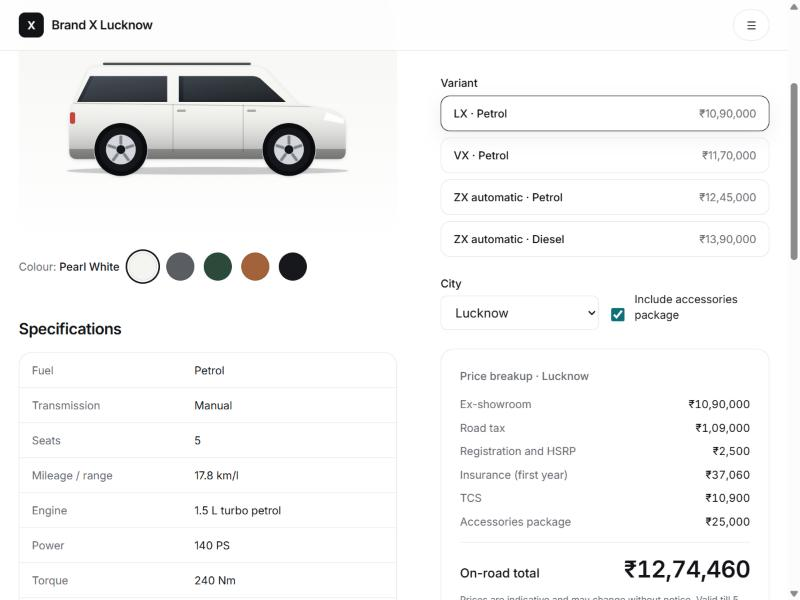
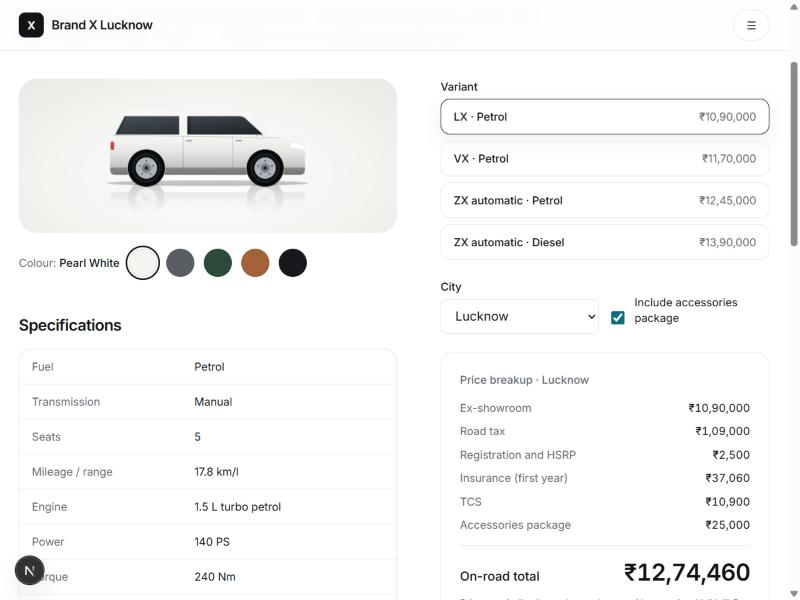
Variant-specific car preview with studio floor and layered colour-change animation

diff --git a/src/components/CarArt.tsx b/src/components/CarArt.tsx
@@ -1,6 +1,7 @@
 import { useId } from "react";
 
-type Body = "Hatchback" | "Sedan" | "SUV";
+export type Body = "Hatchback" | "Sedan" | "SUV";
+export type Trim = { tier: number; tiers: number; fuel: string; transmission: string };
 
 type Shape = {
   tail: number;
@@ -10,36 +11,62 @@ type Shape = {
   archR: number;
   sill: number;
   belt: number;
+  roof: number;
   upper: string;
   glass: string;
   seams: number[];
-  rails?: string;
+  rails: string;
+  spoiler: string;
+  mirror: [number, number];
 };
 
 const GROUND = 180;
+const CX = 245;
+const DEFAULT_TRIM: Trim = { tier: 1, tiers: 3, fuel: "Petrol", transmission: "Manual" };
 
-// Wheel centre sits above the sill, as on a real car; arches are cut out of the body outline.
 const SHAPES: Record<Body, Shape> = {
   SUV: {
-    tail: 30, nose: 459, wheels: [110, 371], wheelR: 34, archR: 42, sill: 161, belt: 74,
+    tail: 30, nose: 459, wheels: [110, 371], wheelR: 34, archR: 42, sill: 161, belt: 74, roof: 17,
     upper: "L30 108 L34 80 L58 26 Q62 17 74 17 L318 17 Q330 17 338 26 L386 76 L430 84 Q455 88 459 108",
     glass: "M62 32 L182 32 L182 72 L42 72 Z M200 32 L314 32 Q324 32 330 39 L366 72 L200 72 Z",
     seams: [191, 300],
     rails: "M84 13 L310 13",
+    spoiler: "M46 40 L68 21 L82 21 L58 42 Z",
+    mirror: [352, 74],
   },
   Sedan: {
-    tail: 20, nose: 470, wheels: [110, 375], wheelR: 31, archR: 39, sill: 162, belt: 90,
+    tail: 20, nose: 470, wheels: [110, 375], wheelR: 31, archR: 39, sill: 162, belt: 90, roof: 35,
     upper: "L20 120 Q20 104 32 102 L118 92 L152 44 Q158 35 176 35 L276 35 Q290 35 300 44 L350 88 L430 98 Q468 104 470 124",
     glass: "M124 88 L154 47 Q158 42 168 42 L200 42 L200 88 Z M208 42 L274 42 Q284 42 291 49 L326 88 L208 88 Z",
     seams: [204, 312],
+    rails: "M170 32 L280 32",
+    spoiler: "M22 103 L70 96 L72 100 L24 108 Z",
+    mirror: [322, 90],
   },
   Hatchback: {
-    tail: 50, nose: 441, wheels: [125, 370], wheelR: 31, archR: 39, sill: 162, belt: 80,
+    tail: 50, nose: 441, wheels: [125, 370], wheelR: 31, archR: 39, sill: 162, belt: 80, roof: 25,
     upper: "L50 118 Q50 104 54 94 L72 36 Q75 25 88 25 L290 25 Q304 25 312 34 L352 84 L412 92 Q440 96 441 116",
     glass: "M80 36 L186 36 L186 76 L62 76 Z M196 36 L286 36 Q296 36 302 43 L332 76 L196 76 Z",
     seams: [191, 292],
+    rails: "M92 21 L284 21",
+    spoiler: "M56 42 L78 24 L92 25 L68 46 Z",
+    mirror: [322, 80],
   },
 };
+
+export function trimSpec(trim: Trim, body: Body) {
+  const f = trim.tiers > 1 ? trim.tier / (trim.tiers - 1) : 0.5;
+  return {
+    scale: 0.92 + f * 0.1,
+    rails: body === "SUV" ? f >= 0.34 : f >= 0.67,
+    spoiler: body !== "SUV" && f >= 0.67,
+    chrome: f >= 0.34,
+    led: f >= 0.5,
+    ev: trim.fuel === "Electric",
+    cng: trim.fuel === "CNG",
+    wheel: trim.fuel === "Electric" ? "aero" : f < 0.34 ? "steel" : f < 0.67 ? "alloy5" : "alloy10",
+  } as const;
+}
 
 function outline(s: Shape) {
   const [r, f] = s.wheels;
@@ -56,58 +83,168 @@ function outline(s: Shape) {
   ].join(" ");
 }
 
-export function CarArt({ body, colour, className }: { body: Body; colour: string; className?: string }) {
+const fade = (on: boolean): React.CSSProperties => ({ opacity: on ? 1 : 0, transition: "opacity .5s ease" });
+
+function Wheel({ x, cy, r, style }: { x: number; cy: number; r: number; style: string }) {
+  const show = (name: string) => fade(style === name);
+  return (
+    <g>
+      <circle cx={x} cy={cy} r={r} fill="#101215" />
+      <circle cx={x} cy={cy} r={r * 0.88} fill="none" stroke="#2a2d32" strokeWidth="1.4" />
+      <circle cx={x} cy={cy} r={r * 0.68} fill="#d6d9de" />
+      <circle cx={x} cy={cy} r={r * 0.5} fill="#9aa0a8" opacity="0.5" />
+
+      <g style={show("steel")}>
+        <circle cx={x} cy={cy} r={r * 0.68} fill="#aeb3ba" />
+        <circle cx={x} cy={cy} r={r * 0.3} fill="#7b8088" />
+        {[0, 72, 144, 216, 288].map((a) => <circle key={a} cx={x} cy={cy - r * 0.46} r="1.6" fill="#4a4e55" transform={`rotate(${a} ${x} ${cy})`} />)}
+      </g>
+      <g style={show("alloy5")}>
+        {[0, 72, 144, 216, 288].map((a) => <rect key={a} x={x - 2.8} y={cy - r * 0.66} width="5.6" height={r * 0.46} rx="2.6" fill="#7d838b" transform={`rotate(${a} ${x} ${cy})`} />)}
+      </g>
+      <g style={show("alloy10")}>
+        <circle cx={x} cy={cy} r={r * 0.68} fill="#2c3036" />
+        {Array.from({ length: 10 }, (_, i) => i * 36).map((a) => <rect key={a} x={x - 1.7} y={cy - r * 0.66} width="3.4" height={r * 0.46} rx="1.6" fill="#e3e6ea" transform={`rotate(${a} ${x} ${cy})`} />)}
+        <circle cx={x} cy={cy} r={r * 0.68} fill="none" stroke="#e3e6ea" strokeWidth="1" />
+      </g>
+      <g style={show("aero")}>
+        <circle cx={x} cy={cy} r={r * 0.68} fill="#e8eaee" />
+        <circle cx={x} cy={cy} r={r * 0.56} fill="none" stroke="#b4bac2" strokeWidth="2" />
+        <circle cx={x} cy={cy} r={r * 0.4} fill="none" stroke="#c7ccd3" strokeWidth="1.2" />
+        <circle cx={x} cy={cy} r={r * 0.16} fill="#1d8fa0" />
+      </g>
+      <circle cx={x} cy={cy} r={r * 0.12} fill="#101215" opacity="0.8" />
+    </g>
+  );
+}
+
+type Props = {
+  body: Body;
+  colour: string;
+  fromColour?: string;
+  animKey?: number;
+  trim?: Trim;
+  reflection?: boolean;
+  className?: string;
+};
+
+export function CarArt({ body, colour, fromColour, animKey = 0, trim = DEFAULT_TRIM, reflection = false, className }: Props) {
   const uid = useId().replace(/:/g, "");
   const s = SHAPES[body];
+  const t = trimSpec(trim, body);
   const path = outline(s);
   const cy = GROUND - s.wheelR;
+  const baseColour = fromColour ?? colour;
+  const animating = !!fromColour && fromColour !== colour;
+  const bandEdges = [s.roof - 6, s.belt - 4, s.belt + (s.sill - s.belt) * 0.42, s.sill - 14, GROUND + 4];
+  const layerDelays = [0, 0.14, 0.28, 0.42];
+
+  const paint = (c: string) => (
+    <g>
+      <path d={path} fill={c} />
+      <g clipPath={`url(#c${uid})`}>
+        <rect x="0" y={s.sill - 16} width="490" height="20" fill="#000" opacity="0.3" />
+        <path d={path} fill={`url(#b${uid})`} />
+        <rect x="0" y={s.belt - 8} width="490" height="14" fill={`url(#sp${uid})`} />
+      </g>
+    </g>
+  );
+
+  const car = (isReflection: boolean) => (
+    <g style={{ transform: `scale(${t.scale})`, transformOrigin: `${CX}px ${GROUND}px`, transition: "transform .8s cubic-bezier(.2,.8,.2,1)" }}>
+      <ellipse cx={(s.tail + s.nose) / 2} cy={GROUND - 1} rx={(s.nose - s.tail) / 2 + 6} ry="6" fill="#000" opacity="0.22" />
+      {s.wheels.map((x) => <circle key={`w${x}`} cx={x} cy={cy} r={s.archR - 1} fill="#08090b" />)}
+
+      {paint(baseColour)}
+      {animating && !isReflection && (
+        <g key={animKey}>
+          {bandEdges.slice(0, 4).map((y, i) => (
+            <g key={i} clipPath={`url(#band${i}${uid})`}>
+              <g className="paint-sweep" style={{ animationDelay: `${layerDelays[i]}s` }}>{paint(colour)}</g>
+            </g>
+          ))}
+        </g>
+      )}
+      {isReflection && animating && paint(colour)}
+
+      <g style={fade(t.ev)}>
+        <rect x={s.tail + 30} y={s.sill - 5} width={s.nose - s.tail - 60} height="2.2" rx="1.1" fill="#35c3d8" opacity="0.9" />
+        <rect x={s.wheels[1] + 52} y={s.belt + 6} width="9" height="7" rx="2" fill="#1d8fa0" />
+      </g>
+
+      <path d={s.glass} fill={`url(#g${uid})`} />
+      <path d={s.glass} fill="#fff" opacity="0.07" transform="translate(7 -2)" />
+      <path d={s.glass} fill="none" stroke="#d8dce1" strokeWidth="1.6" style={fade(t.chrome)} />
+      <path d={s.rails} stroke="#16181b" strokeWidth="3.5" strokeLinecap="round" style={{ opacity: t.rails ? 0.78 : 0, transition: "opacity .5s ease" }} />
+      <path d={s.spoiler} fill="#15171a" style={{ opacity: t.spoiler ? 0.92 : 0, transition: "opacity .5s ease" }} />
+
+      <g clipPath={`url(#c${uid})`}>
+        <path d={`M${s.tail + 6} ${s.belt} L${s.nose - 6} ${s.belt + 6}`} stroke="#000" strokeOpacity="0.18" strokeWidth="1.5" fill="none" />
+        {s.seams.map((x) => <path key={x} d={`M${x} ${s.belt + 2} L${x} ${s.sill - 10}`} stroke="#000" strokeOpacity="0.2" strokeWidth="1.2" />)}
+        <path d={`M${s.tail + 14} ${s.sill - 9} L${s.nose - 14} ${s.sill - 9}`} stroke="#d8dce1" strokeWidth="1.6" style={fade(t.chrome)} />
+      </g>
+
+      <path d={`M${s.nose - 30} ${s.belt + 14} L${s.nose - 3} ${s.belt + 24} L${s.nose - 3} ${s.belt + 32} L${s.nose - 34} ${s.belt + 26} Z`} fill="#fff" opacity="0.95" />
+      <path d={`M${s.nose - 34} ${s.belt + 12} L${s.nose - 6} ${s.belt + 21}`} stroke="#9fe9f5" strokeWidth="2.2" strokeLinecap="round" style={fade(t.led)} />
+      <rect x={s.tail + 1} y={s.belt + 14} width="8" height="18" rx="3" fill="#c0392b" opacity="0.92" />
+      <rect x={s.tail + 1} y={s.belt + 20} width="14" height="3" rx="1.5" fill="#ff6a5a" style={fade(t.led)} />
+      <rect x={s.seams[0] + 6} y={s.belt + 10} width="14" height="3.5" rx="1.75" fill="#000" opacity="0.3" />
+      <rect x={s.seams[1] + 6} y={s.belt + 10} width="14" height="3.5" rx="1.75" fill="#000" opacity="0.3" />
+      <path d={`M${s.mirror[0]} ${s.mirror[1]} q8 -2 14 2 q-2 7 -12 6 z`} fill={baseColour} stroke="#000" strokeOpacity="0.25" strokeWidth="1" />
+      <text x={s.wheels[0] + 52} y={s.belt + 30} fontSize="9" fontWeight="700" fill="#fff" opacity={t.cng ? 0.85 : 0} style={{ transition: "opacity .5s ease" }}>CNG</text>
+
+      {s.wheels.map((x) => <Wheel key={x} x={x} cy={cy} r={s.wheelR} style={t.wheel} />)}
+    </g>
+  );
 
   return (
-    <svg viewBox="0 6 490 184" role="img" aria-label={`${body} in ${colour}`} className={className}>
+    <svg viewBox={`8 6 474 ${reflection ? 236 : 184}`} role="img" aria-label={`${body} in ${colour}`} className={className}>
       <defs>
         <linearGradient id={`b${uid}`} x1="0" y1="0" x2="0" y2="1">
           <stop offset="0" stopColor="#fff" stopOpacity="0.4" />
           <stop offset="0.35" stopColor="#fff" stopOpacity="0" />
           <stop offset="1" stopColor="#000" stopOpacity="0.32" />
         </linearGradient>
+        <linearGradient id={`sp${uid}`} x1="0" y1="0" x2="1" y2="0">
+          <stop offset="0" stopColor="#fff" stopOpacity="0" />
+          <stop offset="0.45" stopColor="#fff" stopOpacity="0.38" />
+          <stop offset="1" stopColor="#fff" stopOpacity="0" />
+        </linearGradient>
         <linearGradient id={`g${uid}`} x1="0" y1="0" x2="1" y2="1">
           <stop offset="0" stopColor="#3b434c" />
           <stop offset="1" stopColor="#0e1217" />
         </linearGradient>
+        <linearGradient id={`fl${uid}`} x1="0" y1="0" x2="0" y2="1">
+          <stop offset="0" stopColor="#fff" stopOpacity="0.9" />
+          <stop offset="1" stopColor="#fff" stopOpacity="0" />
+        </linearGradient>
+        <mask id={`m${uid}`}><rect x="0" y={GROUND} width="490" height="58" fill={`url(#fl${uid})`} /></mask>
+        <linearGradient id={`scan${uid}`} x1="0" y1="0" x2="1" y2="0">
+          <stop offset="0" stopColor="#7fe7ff" stopOpacity="0" />
+          <stop offset="0.85" stopColor="#7fe7ff" stopOpacity="0.55" />
+          <stop offset="1" stopColor="#fff" stopOpacity="1" />
+        </linearGradient>
         <clipPath id={`c${uid}`}><path d={path} /></clipPath>
+        {bandEdges.slice(0, 4).map((y, i) => (
+          <clipPath key={i} id={`band${i}${uid}`}><rect x="0" y={y} width="490" height={bandEdges[i + 1] - y} /></clipPath>
+        ))}
       </defs>
 
-      <ellipse cx={(s.tail + s.nose) / 2} cy={GROUND - 1} rx={(s.nose - s.tail) / 2 + 4} ry="6" fill="#000" opacity="0.18" />
-
-      {s.wheels.map((x) => <circle key={`w${x}`} cx={x} cy={cy} r={s.archR - 1} fill="#0a0c0f" />)}
-
-      <path d={path} fill={colour} />
-      <g clipPath={`url(#c${uid})`}>
-        <rect x="0" y={s.sill - 16} width="490" height="20" fill="#000" opacity="0.3" />
-        <path d={path} fill={`url(#b${uid})`} />
-        <path d={`M${s.tail + 6} ${s.belt} L${s.nose - 6} ${s.belt + 6}`} stroke="#000" strokeOpacity="0.18" strokeWidth="1.5" fill="none" />
-        {s.seams.map((x) => <path key={x} d={`M${x} ${s.belt + 2} L${x} ${s.sill - 10}`} stroke="#000" strokeOpacity="0.2" strokeWidth="1.2" />)}
-      </g>
-
-      <path d={s.glass} fill={`url(#g${uid})`} />
-      <path d={s.glass} fill="#fff" opacity="0.07" transform="translate(7 -2)" />
-      {s.rails && <path d={s.rails} stroke="#16181b" strokeWidth="3.5" strokeLinecap="round" opacity="0.75" />}
-
-      <path d={`M${s.nose - 30} ${s.belt + 14} L${s.nose - 3} ${s.belt + 24} L${s.nose - 3} ${s.belt + 32} L${s.nose - 34} ${s.belt + 26} Z`} fill="#fff" opacity="0.95" />
-      <rect x={s.tail + 1} y={s.belt + 14} width="8" height="18" rx="3" fill="#c0392b" opacity="0.92" />
-      <rect x={s.seams[0] + 6} y={s.belt + 10} width="14" height="3.5" rx="1.75" fill="#000" opacity="0.3" />
-      <rect x={s.seams[1] + 6} y={s.belt + 10} width="14" height="3.5" rx="1.75" fill="#000" opacity="0.3" />
-
-      {s.wheels.map((x) => (
-        <g key={x}>
-          <circle cx={x} cy={cy} r={s.wheelR} fill="#14161a" />
-          <circle cx={x} cy={cy} r={s.wheelR * 0.68} fill="#d3d6db" />
-          {[0, 72, 144, 216, 288].map((a) => (
-            <rect key={a} x={x - 2.2} y={cy - s.wheelR * 0.64} width="4.4" height={s.wheelR * 0.42} rx="2" fill="#7d838b" transform={`rotate(${a} ${x} ${cy})`} />
-          ))}
-          <circle cx={x} cy={cy} r={s.wheelR * 0.2} fill="#14161a" />
+      {reflection && (
+        <g mask={`url(#m${uid})`}>
+          <g transform={`translate(0 ${GROUND * 2}) scale(1 -1)`} opacity="0.22">{car(true)}</g>
         </g>
-      ))}
+      )}
+      {car(false)}
+
+      {animating && (
+        <g key={`fx${animKey}`} style={{ transform: `scale(${t.scale})`, transformOrigin: `${CX}px ${GROUND}px` }}>
+          <path d={path} pathLength="1" fill="none" stroke="#7fe7ff" strokeWidth="1.6" className="wire" />
+          <g className="scan-line">
+            <rect x="-26" y={s.roof - 12} width="26" height={GROUND - s.roof + 20} fill={`url(#scan${uid})`} />
+          </g>
+        </g>
+      )}
     </svg>
   );
 }

diff --git a/src/components/ModelExplorer.tsx b/src/components/ModelExplorer.tsx
@@ -2,7 +2,7 @@
 
 import Link from "next/link";
 import { useEffect, useMemo, useState } from "react";
-import { CarArt } from "@/components/CarArt";
+import { CarStage } from "@/components/CarStage";
 import { computeEmi } from "@/lib/emi";
 import { dateLabel, rupees } from "@/lib/format";
 import { makeT, type Locale } from "@/lib/dict";
@@ -51,8 +51,8 @@ export function ModelExplorer({ locale, slug, bodyType, colours, variants, citie
     <div className="grid gap-8 lg:grid-cols-[1.15fr_1fr] lg:gap-14">
       <div className="contents lg:block">
         <div>
-          <div className="grid aspect-[16/10] place-items-center rounded-3xl bg-gradient-to-b from-surface to-white p-4 sm:p-10">
-            <CarArt body={bodyType} colour={colour.hex} className="w-full max-w-xl drop-shadow-sm" />
+          <div className="grid aspect-[16/9] place-items-center overflow-hidden rounded-3xl bg-[radial-gradient(ellipse_at_50%_62%,#ffffff_0%,#f3f3f0_62%,#e9e9e5_100%)] p-3 sm:p-6">
+            <CarStage body={bodyType} colour={colour.hex} trim={{ tier: Math.max(0, variants.findIndex((v) => v.id === variant.id)), tiers: variants.length, fuel: variant.fuel, transmission: variant.transmission }} className="w-full" />
           </div>
           <div className="mt-5 flex flex-wrap items-center gap-3" role="radiogroup" aria-label={t("colour")}>
             <span className="text-sm text-muted">{t("colour")}: <span className="font-medium text-ink">{colour.name}</span></span>

diff --git a/src/app/globals.css b/src/app/globals.css
@@ -75,3 +75,38 @@ body {
   .skeleton { animation: none; }
   * { scroll-behavior: auto !important; transition: none !important; }
 }
+
+@keyframes paint-sweep {
+  from { clip-path: inset(0 100% 0 0); }
+  to { clip-path: inset(0 0 0 0); }
+}
+
+@keyframes scan-line {
+  0% { transform: translateX(0); opacity: 0; }
+  8% { opacity: 1; }
+  92% { opacity: 1; }
+  100% { transform: translateX(520px); opacity: 0; }
+}
+
+@keyframes wire-trace {
+  0% { stroke-dashoffset: 1; opacity: 0; }
+  15% { opacity: 1; }
+  70% { stroke-dashoffset: 0; opacity: 0.9; }
+  100% { stroke-dashoffset: 0; opacity: 0; }
+}
+
+@keyframes stage-tilt {
+  0% { transform: perspective(900px) rotateY(0deg) scale(1); }
+  35% { transform: perspective(900px) rotateY(-11deg) scale(1.025); }
+  100% { transform: perspective(900px) rotateY(0deg) scale(1); }
+}
+
+.paint-sweep { animation: paint-sweep 0.7s cubic-bezier(0.3, 0.7, 0.2, 1) both; }
+.scan-line { animation: scan-line 1.15s cubic-bezier(0.4, 0, 0.2, 1) both; filter: drop-shadow(0 0 6px #7fe7ff); }
+.wire { stroke-dasharray: 1; animation: wire-trace 1.15s ease-out both; filter: drop-shadow(0 0 3px #7fe7ff); }
+.stage-tilt { animation: stage-tilt 1.5s ease-in-out both; transform-origin: 50% 80%; }
+
+@media (prefers-reduced-motion: reduce) {
+  .paint-sweep, .scan-line, .wire, .stage-tilt { animation: none; }
+  .scan-line, .wire { display: none; }
+}

diff --git a/src/components/CarStage.tsx b/src/components/CarStage.tsx
@@ -1,0 +1,29 @@
+"use client";
+
+import { useEffect, useRef, useState } from "react";
+import { CarArt, type Body, type Trim } from "@/components/CarArt";
+
+const SWEEP_MS = 1700;
+
+export function CarStage({ body, colour, trim, className }: { body: Body; colour: string; trim: Trim; className?: string }) {
+  const [from, setFrom] = useState<string | undefined>();
+  const [key, setKey] = useState(0);
+  const shown = useRef(colour);
+
+  useEffect(() => {
+    if (colour === shown.current) return;
+    setFrom(shown.current);
+    shown.current = colour;
+    setKey((k) => k + 1);
+    const timer = setTimeout(() => setFrom(undefined), SWEEP_MS);
+    return () => clearTimeout(timer);
+  }, [colour]);
+
+  return (
+    <div className="[perspective:900px]">
+      <div key={key} className={from ? "stage-tilt" : ""}>
+        <CarArt body={body} colour={colour} fromColour={from} animKey={key} trim={trim} reflection className={className} />
+      </div>
+    </div>
+  );
+}

diff --git a/Decision.md b/Decision.md
@@ -17,6 +17,8 @@ Every decision taken in this project, newest first within each group. "Assumptio
 | SQLite through libSQL with Drizzle ORM. A file locally, Turso in production | A reviewer runs it with two commands and no database server. The same code talks to Turso, so production is not a rewrite |
 | Plain CSS tokens in Tailwind v4, no component library | The client wants minimal and premium. A few owned components keep the look specific and the JavaScript small |
 | Original SVG car illustrations instead of stock photos | No licensing risk, no heavy images against the 2.5 s on 4G target, recolourable per paint colour. Real photography is the first thing to swap in |
+| Each variant renders differently: size, wheel design, roof rails, spoiler, chrome trim, LED lights, electric styling and a CNG badge, all derived from the variant's position in its model's price ladder and its fuel | Buyers should see what they are paying more for. The look is derived, not stored, so a new variant needs no art |
+| Colour change is a layered effect: scan line, wireframe trace, paint filling in four bands from roof to sills, and a slight 3D tilt | Makes a colour choice feel like configuring a product. Pure CSS and SVG, so no extra library. Switched off for users who prefer reduced motion |
 | Every page is dynamic | The layout reads the session and language cookies. Data is small and SQLite is fast. Edge caching of public pages is a next step |
 
 ## Pricing

diff --git a/Features.md b/Features.md
@@ -6,7 +6,7 @@ Status: Built, Partly built, Cut.
 
 | Feature | Status | Notes |
 |---------|--------|-------|
-| Model pages with variants, colours, specifications | Built | Colour dots recolour the car. Price and next step sit under the photo on phones |
+| Model pages with variants, colours, specifications | Built | Studio preview with floor reflection. Each variant changes the car's size, wheels, rails, spoiler, trim and lights. Colour change plays a layered scan-and-paint animation. Price and next step sit under the photo on phones |
 | On-road price breakup by city | Built | Ex-showroom, road tax, registration, insurance, TCS, accessories. Validity date and disclaimer on every price. Lapsed or missing prices handled |
 | Certified used-car list with filters | Built | Model, fuel, maximum price, maximum km. Booked cars stay visible, sold cars are hidden |
 | Used-car detail | Built | Year, owners, km, masked registration, 10-point inspection report, EMI, enquiry, trade-in link |
